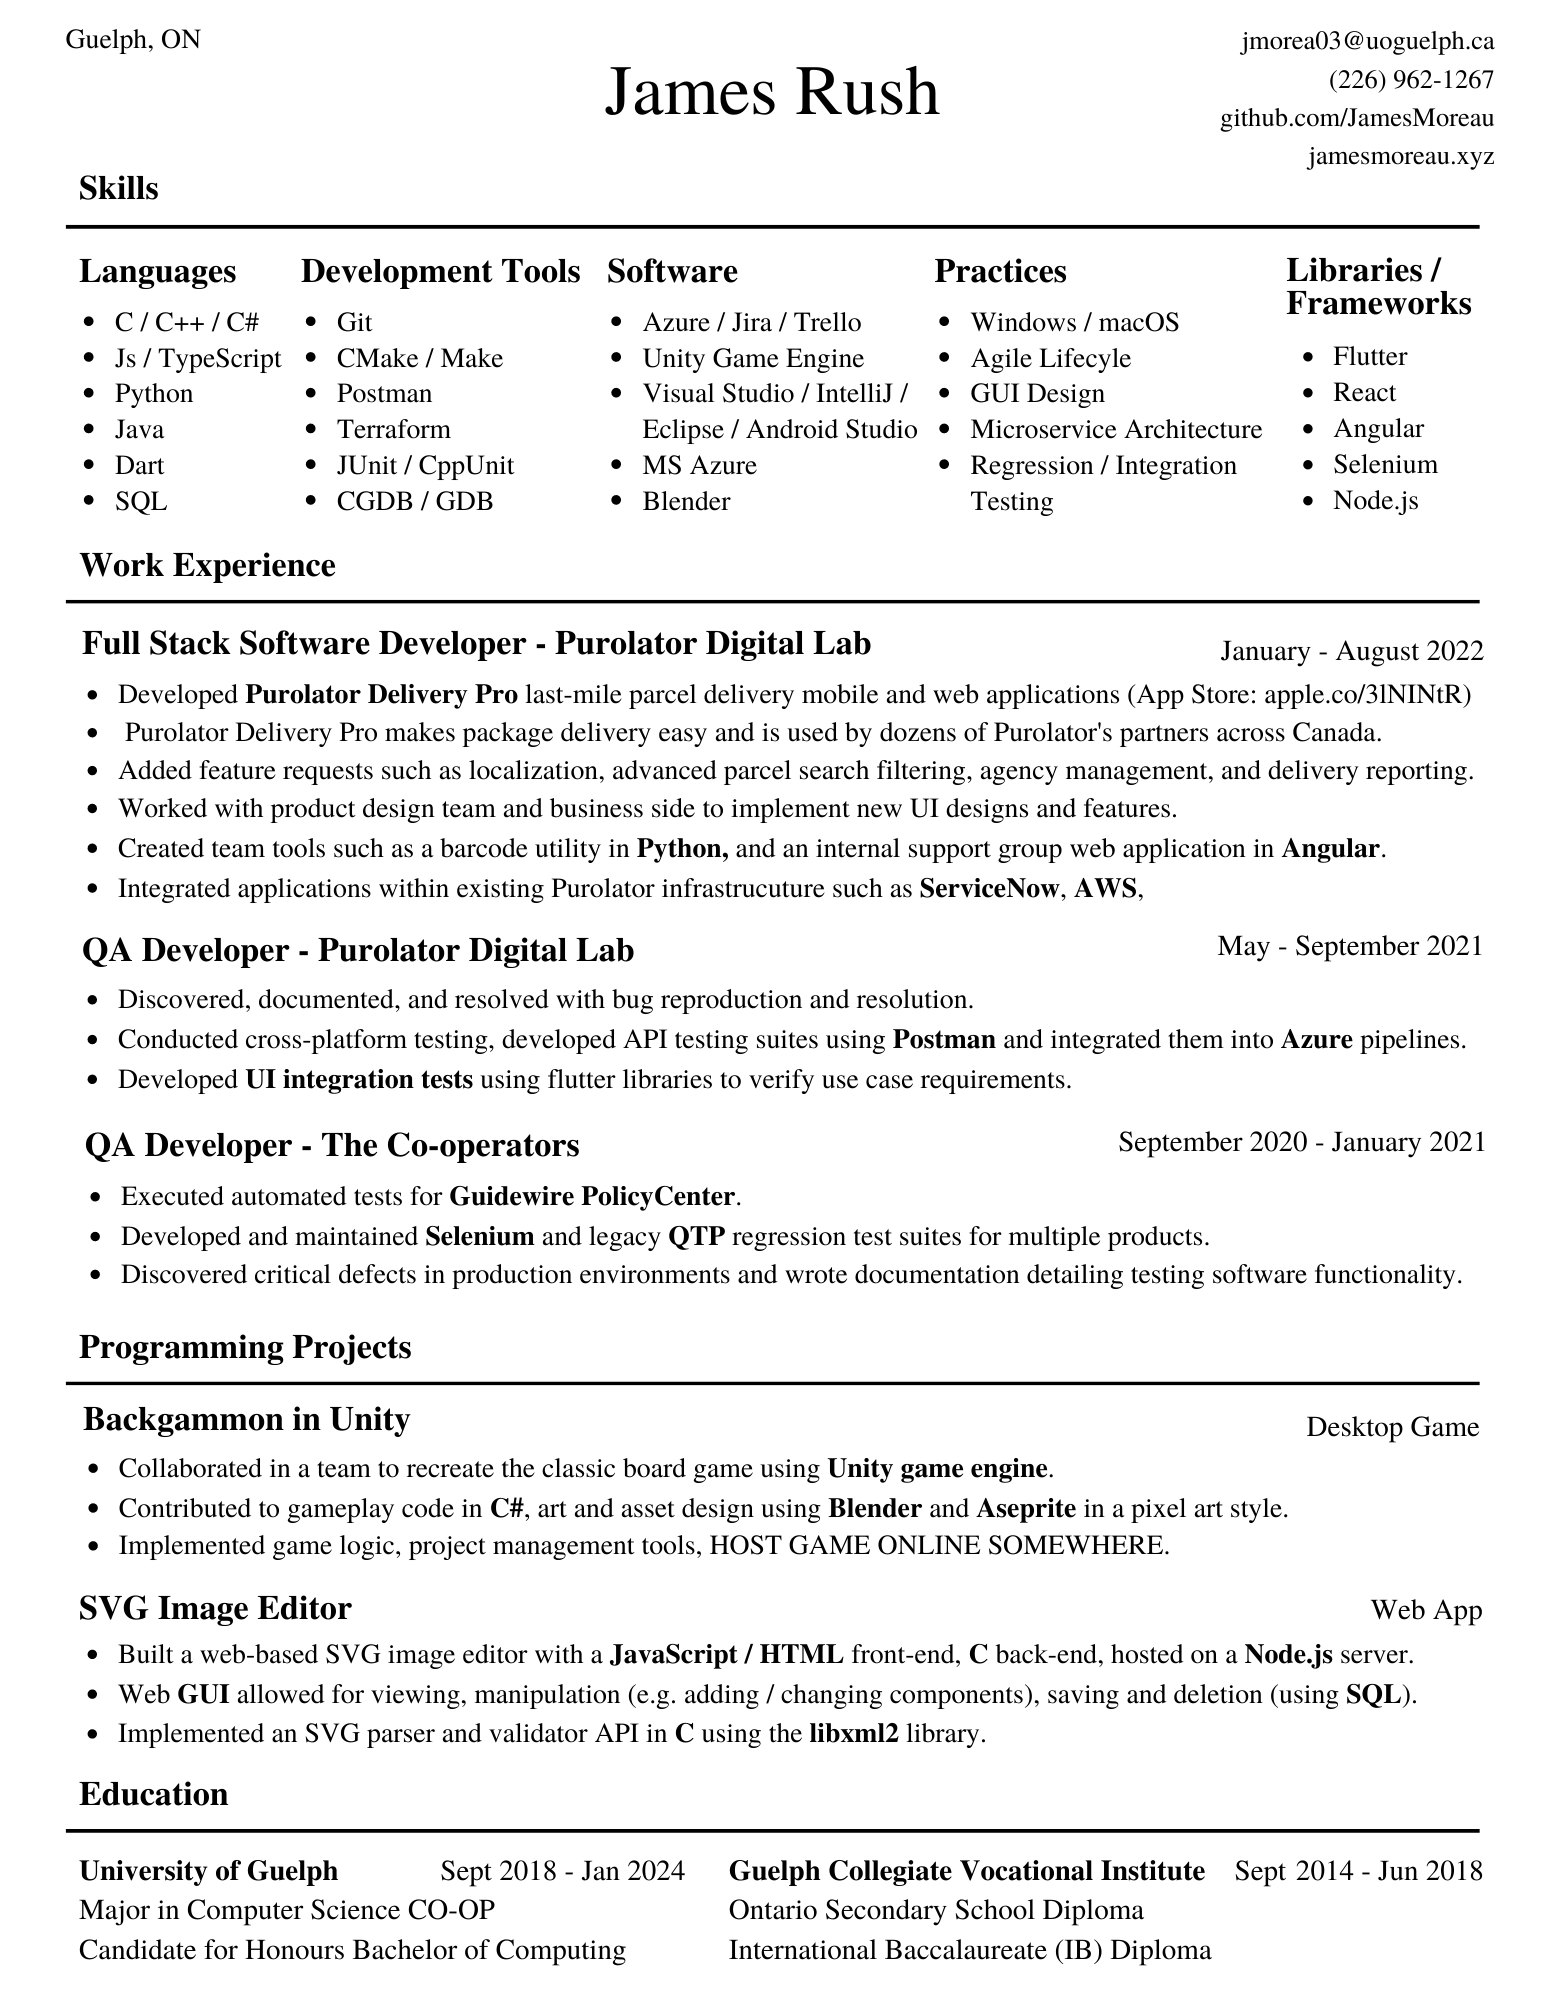
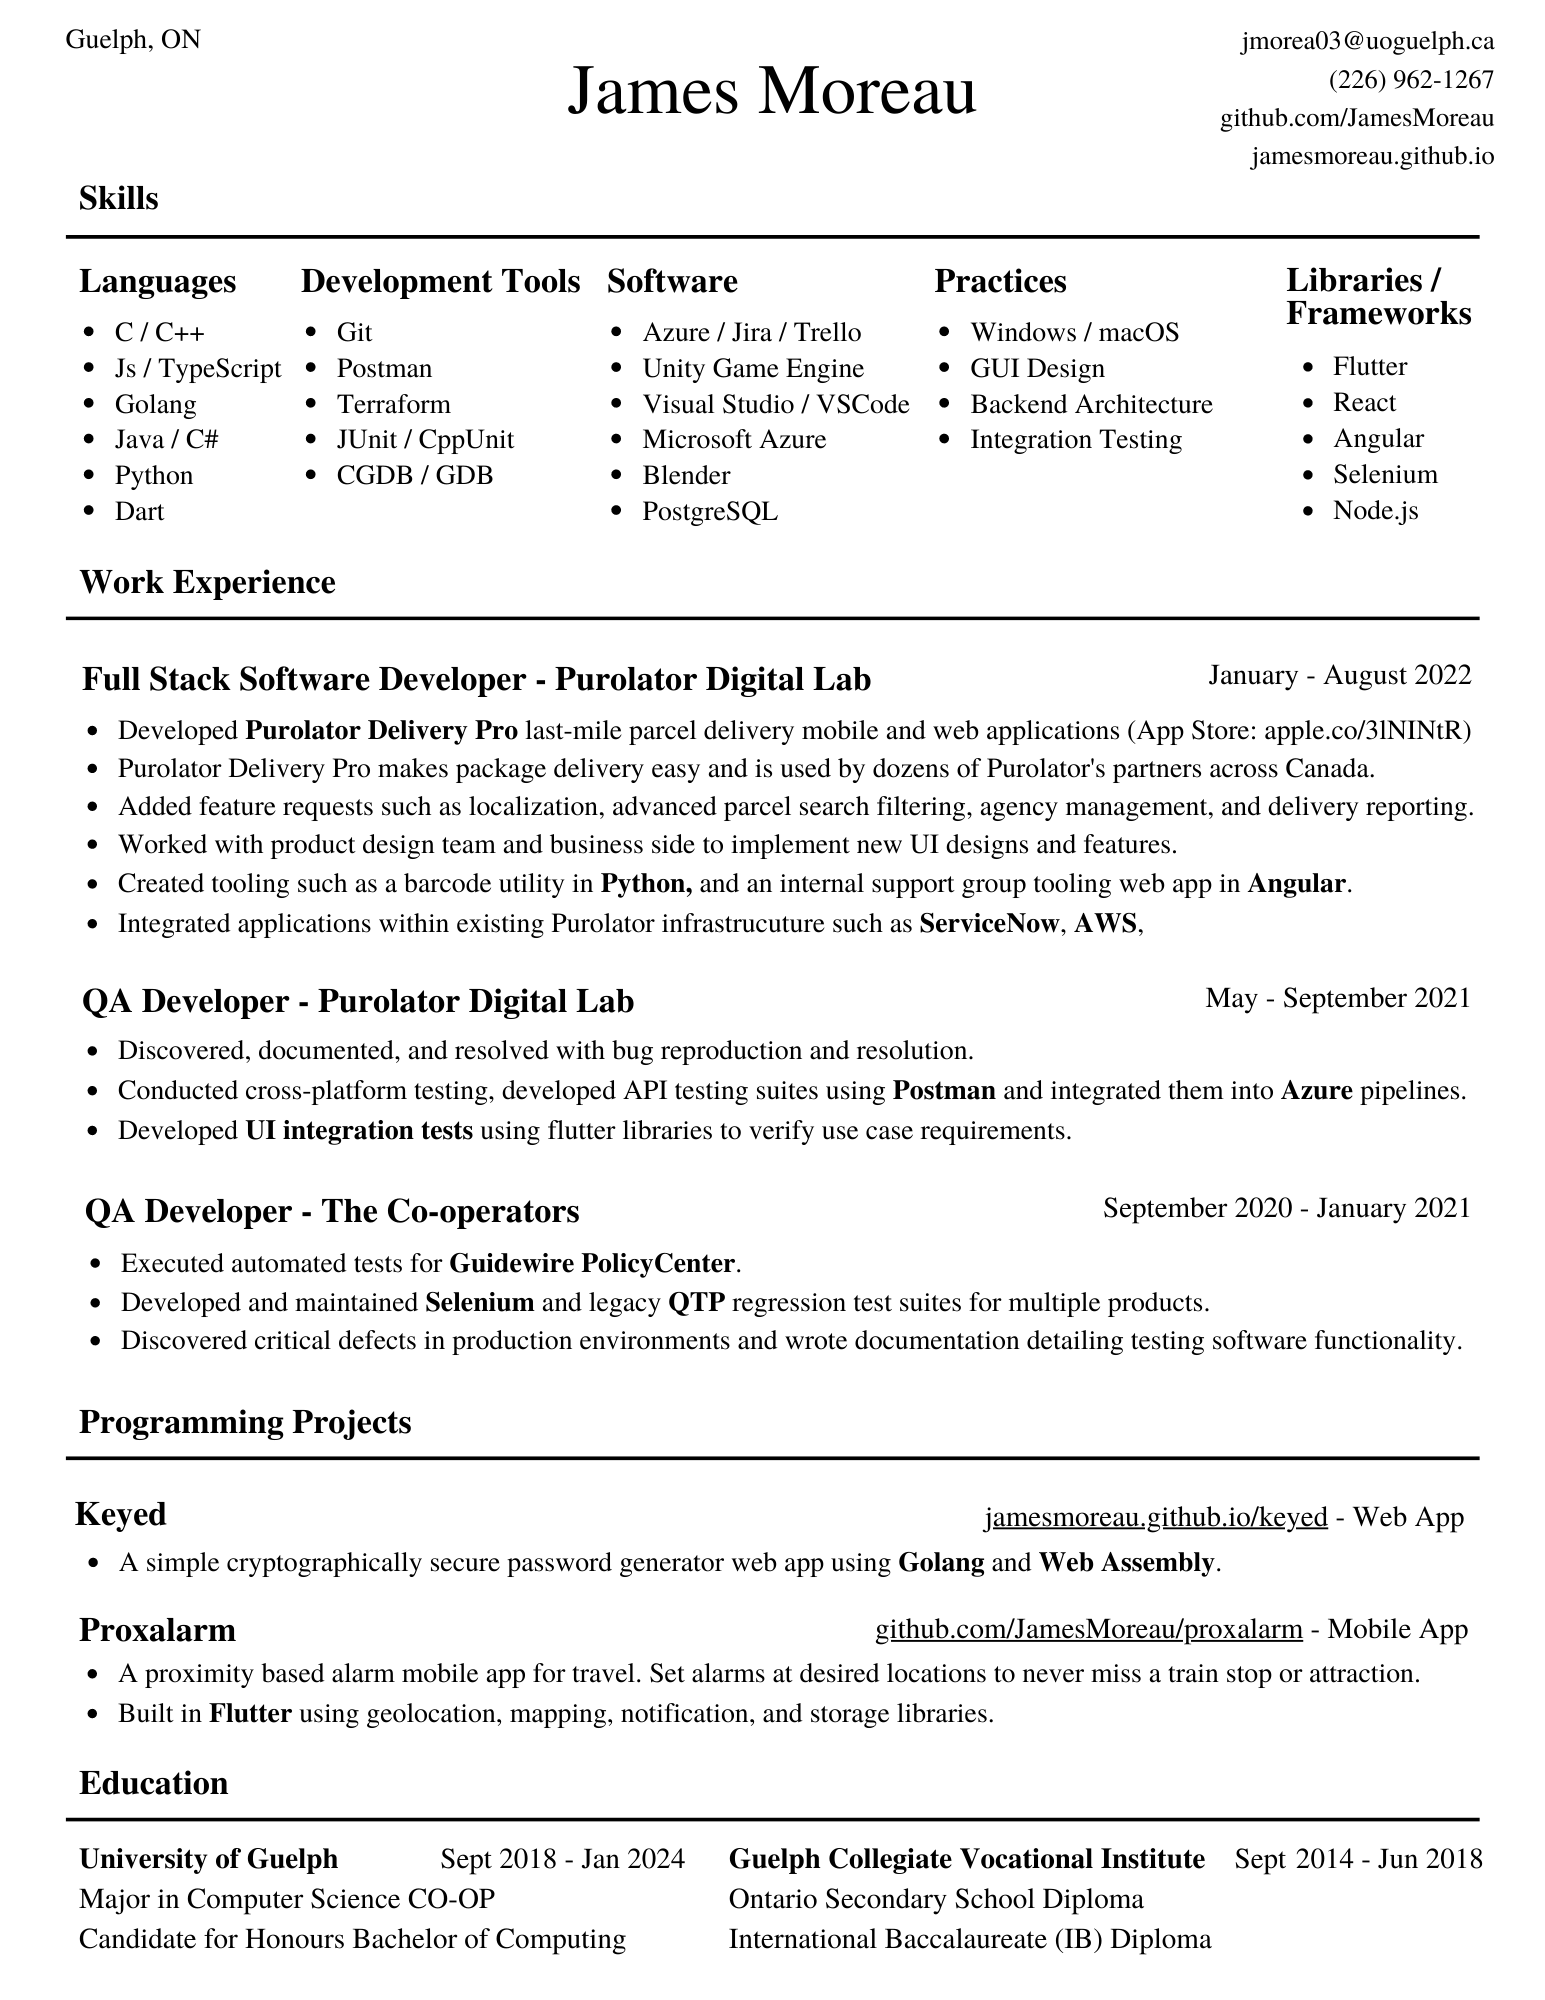
.

Changed region(s): [[0.0311, 0.062, 0.9631, 0.992], [0.3728, 0.031, 0.6214, 0.062], [0.932, 0.558, 0.9631, 0.589]]

diff --git a/lib/main.dart b/lib/main.dart
@@ -9,6 +9,11 @@ import 'package:path/path.dart';
 import 'package:url_launcher/url_launcher.dart';
 import 'package:flame/game.dart';
 
+/*
+  TODO:
+  Retrive resume pdf from url instead of storing it locally as an image
+*/
+
 void main() async {
   WidgetsFlutterBinding.ensureInitialized();
   runApp(MyApp());
@@ -519,7 +524,7 @@ class _ResumeTabState extends State<ResumeTab> {
       child: Row(
         mainAxisAlignment: MainAxisAlignment.center,
         children: [
-          Image.asset(resumePngPath, filterQuality: FilterQuality.high),
+          Image.asset(resumePngPath, filterQuality: FilterQuality.high, errorBuilder: (context, exception, trace) => Text('😢'),),
           Align(
               alignment: Alignment.topLeft,
               child: Padding(
@@ -558,6 +563,28 @@ class _ResumeTabState extends State<ResumeTab> {
   //       ));
   //     },
   //   );
+  // }
+
+  // Future<void> loadResumePdf() async {
+  //   try {
+  //     // Create a temporary directory to store the PDF file
+  //     final tempDir = await getTemporaryDirectory();
+  //     final pdfFile = File('${tempDir.path}/temp.pdf');
+
+  //     // Download the PDF from the given URL
+  //     final response = await Dio().get(widget.resumePdfUrl, options: Options(responseType: ResponseType.bytes));
+  //     await pdfFile.writeAsBytes(response.data, flush: true);
+
+  //     setState(() {
+  //       _pdfPath = pdfFile.path;
+  //     });
+  //   } catch (e) {
+  //     print('Error: $e');
+  //   } finally {
+  //     setState(() {
+  //       _isLoading = false;
+  //     });
+  //   }
   // }
 }
 

diff --git a/lib/constants.dart b/lib/constants.dart
@@ -27,7 +27,7 @@ const List<String> coopTermReports = [
   'assets/coop_term_reports/winter_summer_2022_report.txt'
 ];
 const resumePngPath = 'assets/resume.png';
-const resumePdfLink = 'https://jamesmoreau.github.io/Resume/JamesRush.pdf';
+const resumePdfLink = 'https://jamesmoreau.github.io/Resume/JamesMoreau.pdf';
 const lostInTranslationGifPath = 'assets/lit.gif';
 
 /* Theme data */
